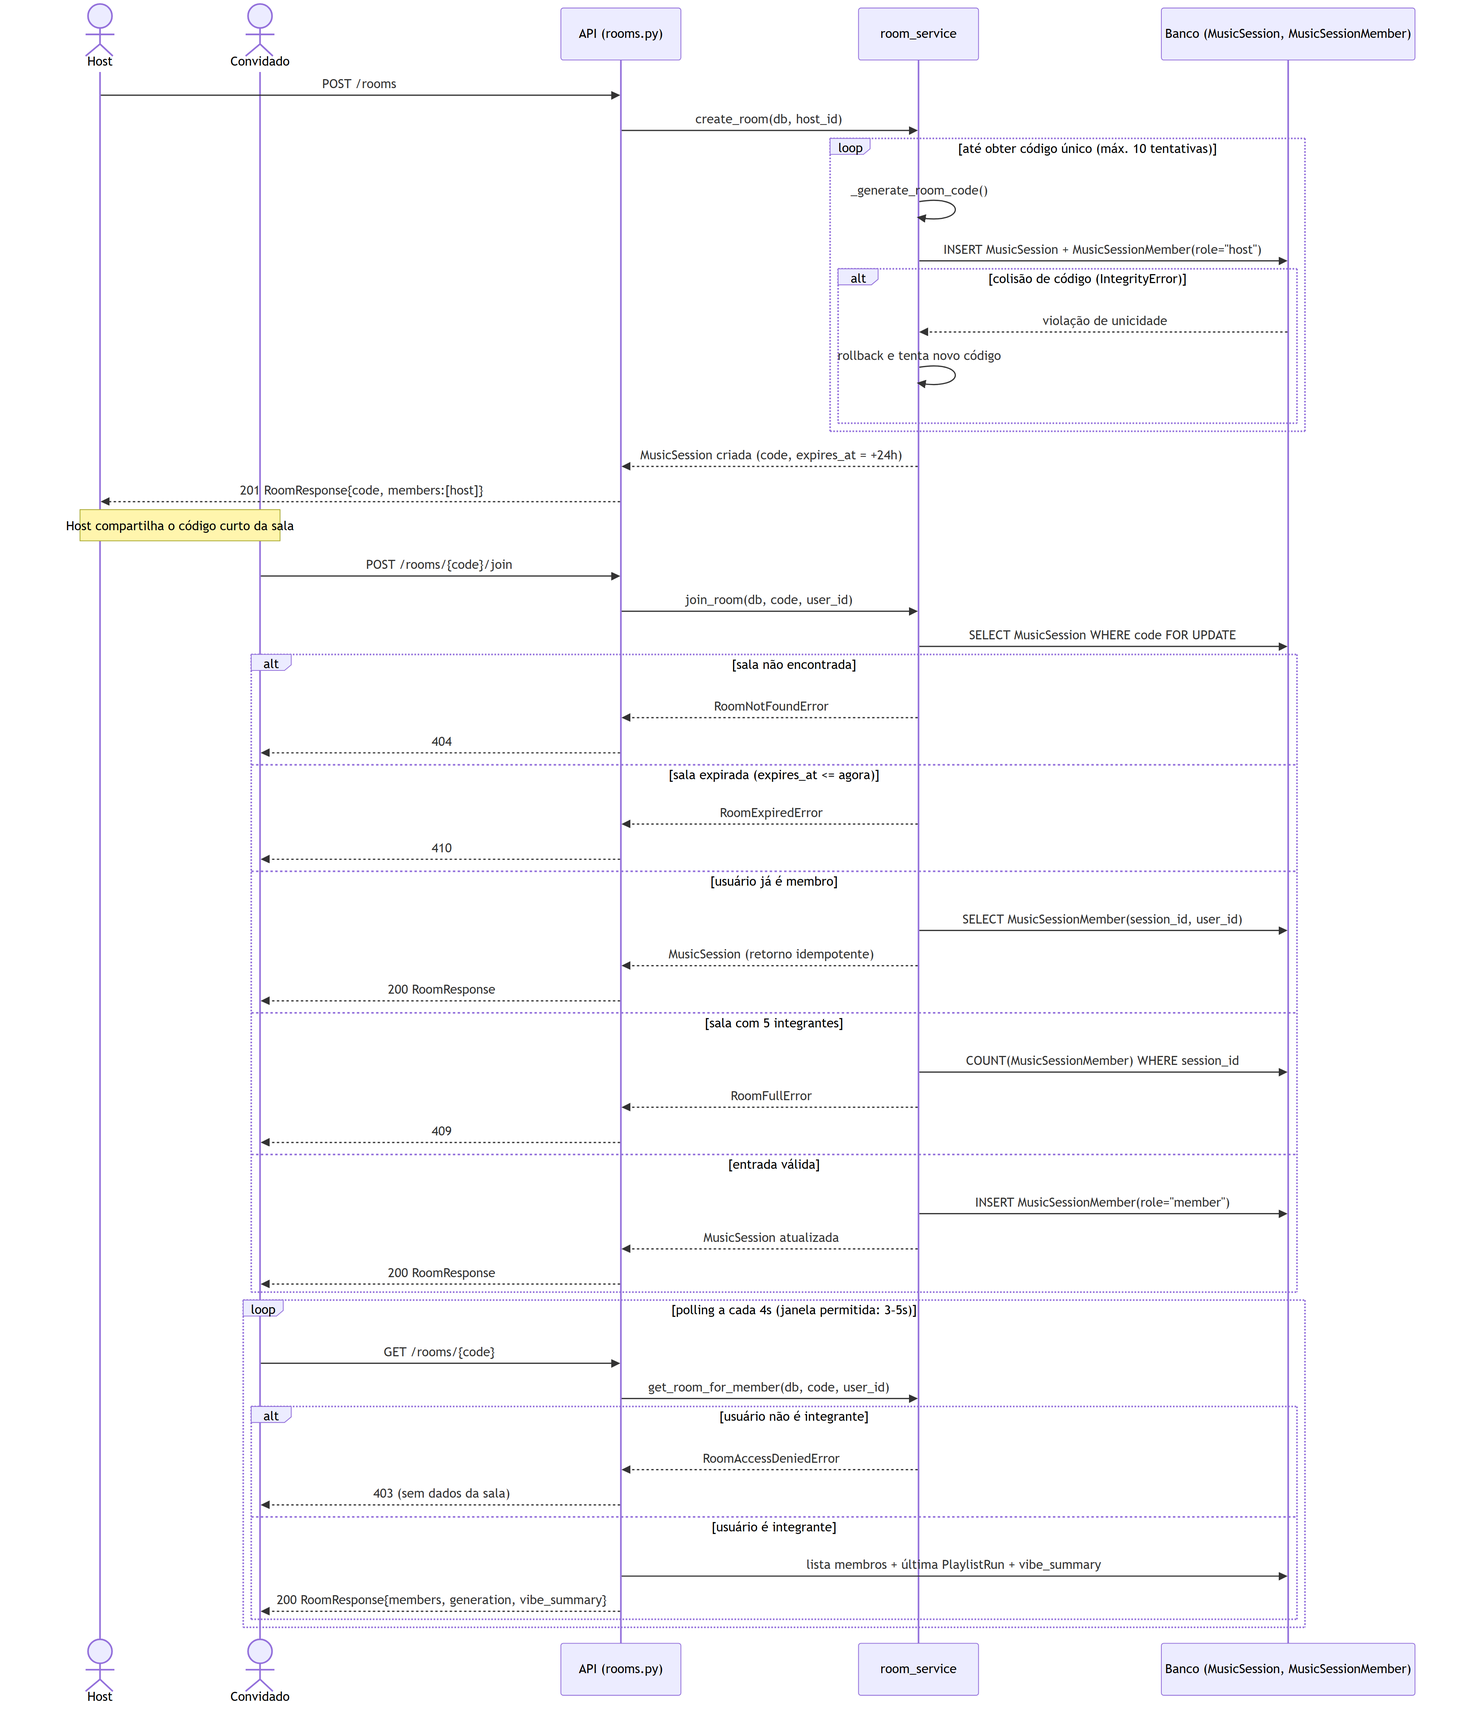
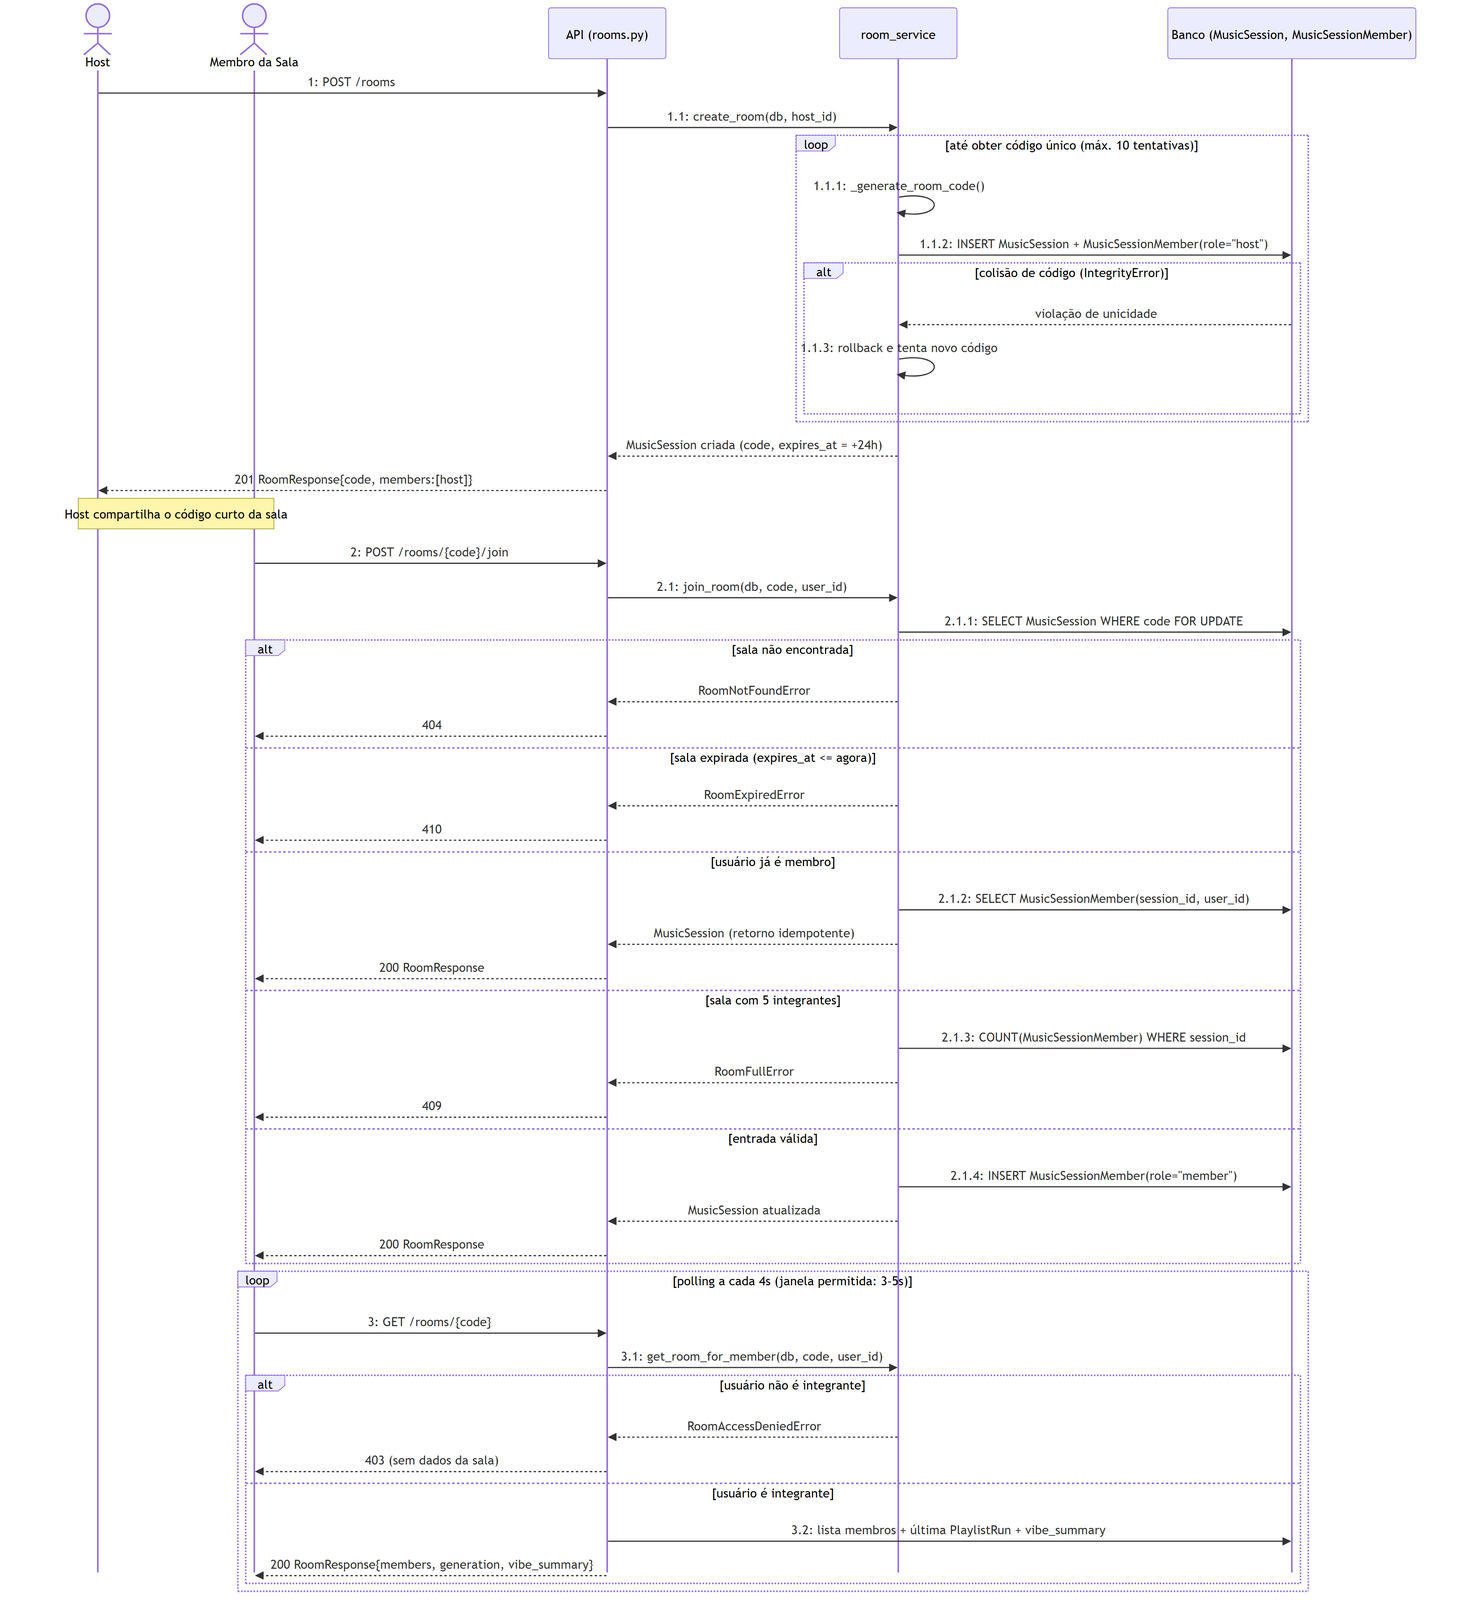
fix(diagramas): remover rodape duplicado, alinhar atores ao .puml e numerar sequencias
- Adiciona mirrorActals:false para remover a faixa de atores duplicada no rodape
  dos 4 diagramas de sequencia em diagrams/historias-usuario/.
- Alinha nomes de atores externos ao diagrams/casos-de-uso/casos-de-uso.puml:
  Usuario -> Membro da Sala (01); LLM (Ollama) -> IA (LLM local) (03);
  Convidado -> Membro da Sala (02 e 04).
- Adiciona numeracao hierarquica (1, 1.1, 1.1.1...) nas setas de chamada dos
  4 diagramas, sem numerar setas de retorno.
- Re-renderiza os 4 .png correspondentes com mmdc na mesma resolucao/caminho.

diff --git a/diagrams/historias-usuario/03-geracao-playlist-pne.md b/diagrams/historias-usuario/03-geracao-playlist-pne.md
@@ -3,19 +3,20 @@
 ![Geração da playlist pelo motor PNE](03-geracao-playlist-pne.png)
 
 ```mermaid
+%%{init: {'sequence': {'mirrorActors': false}}}%%
 sequenceDiagram
     actor Host
     participant API as API (rooms.py)
     participant Gen as GenerationService
-    participant LLM as LLM (Ollama)
+    participant LLM as IA (LLM local)
     participant PNE as Motor PNE (engine/*)
     participant Spotify as Spotify
     participant LastFM as Last.fm
     participant DB as Banco (PlaylistRun, PlaylistRunTrack, snapshots)
 
-    Host->>API: POST /rooms/{code}/generate
-    API->>Gen: start_generation(db, code, host_id)
-    Gen->>DB: SELECT MusicSession WHERE code FOR UPDATE
+    Host->>API: 1: POST /rooms/{code}/generate
+    API->>Gen: 1.1: start_generation(db, code, host_id)
+    Gen->>DB: 1.1.1: SELECT MusicSession WHERE code FOR UPDATE
 
     alt usuário não é o host
         Gen-->>API: RoomHostRequiredError
@@ -24,93 +25,93 @@ sequenceDiagram
         Gen-->>API: GenerationConflictError
         API-->>Host: 409
     else início válido
-        Gen->>DB: room.status = "generating", CREATE PlaylistRun(status="running")
+        Gen->>DB: 1.1.2: room.status = "generating", CREATE PlaylistRun(status="running")
         Gen-->>API: run
     end
 
-    API->>Gen: execute_generation(db, run.id, host_id)
+    API->>Gen: 2: execute_generation(db, run.id, host_id)
     activate Gen
 
-    Gen->>DB: update_generation_progress("interpreting_context")
-    Gen->>LLM: interpret_context(occasion, description)
+    Gen->>DB: 2.1: update_generation_progress("interpreting_context")
+    Gen->>LLM: 2.2: interpret_context(occasion, description)
     alt LLM disponível e resposta dentro do schema
         LLM-->>Gen: LLMContext{occasion, mood, energy, tags+/-, avoid}
     else LLM indisponível ou resposta inválida
-        Gen->>Gen: fallback_context() determinístico
+        Gen->>Gen: 2.3: fallback_context() determinístico
     end
-    Gen->>DB: persiste llm_context_json no run
+    Gen->>DB: 2.4: persiste llm_context_json no run
 
-    Gen->>DB: update_generation_progress("collecting_tastes")
+    Gen->>DB: 2.5: update_generation_progress("collecting_tastes")
     loop para cada integrante da sala
-        Gen->>Spotify: get_or_refresh_snapshot (top tracks/artists)
+        Gen->>Spotify: 2.6: get_or_refresh_snapshot (top tracks/artists)
         alt snapshot com menos de 7 dias
             Note over Gen,DB: reutiliza UserMusicSnapshot em cache
         else snapshot vencido ou ausente
             Spotify-->>Gen: novos top tracks / top artists
-            Gen->>DB: upsert UserMusicSnapshot
+            Gen->>DB: 2.6.1: upsert UserMusicSnapshot
         end
-        Gen->>PNE: new UserTasteProfile(member_id, tracks, artists, gêneros)
+        Gen->>PNE: 2.7: new UserTasteProfile(member_id, tracks, artists, gêneros)
     end
 
-    Gen->>PNE: cluster_taste_profiles(profiles)
+    Gen->>PNE: 2.8: cluster_taste_profiles(profiles)
     PNE-->>Gen: TasteClusteringResult (subgrupos ou "evidência insuficiente")
 
-    Gen->>PNE: generate_candidate_pool(snapshots)
+    Gen->>PNE: 2.9: generate_candidate_pool(snapshots)
     PNE-->>Gen: CandidateTrack[] (+ descartadas com motivo)
     alt nenhuma candidata válida encontrada
         Gen-->>API: InsufficientTracksError
         API-->>Host: 422
     end
 
-    Gen->>PNE: enrich_candidate_genres(candidates, gêneros dos artistas)
-    Gen->>LastFM: enrich_candidates_context (tags por faixa → artista)
+    Gen->>PNE: 2.10: enrich_candidate_genres(candidates, gêneros dos artistas)
+    Gen->>LastFM: 2.11: enrich_candidates_context (tags por faixa → artista)
     alt Last.fm indisponível ou sem tags
         Note over Gen,LastFM: mantém gêneros do Spotify já anexados (RNF-08)
     end
-    Gen->>DB: update_generation_progress("discovering_context")
-    Gen->>PNE: discover_context_candidates(candidates, ContextCriteria)
+    Gen->>DB: 2.12: update_generation_progress("discovering_context")
+    Gen->>PNE: 2.13: discover_context_candidates(candidates, ContextCriteria)
 
-    Gen->>DB: update_generation_progress("ranking")
-    Gen->>DB: load_vibe_preferences (agrega VibeCheckAnswer "answered" da sala)
-    Gen->>PNE: _rank_candidates(candidates, profiles, mode, context, vibe_preferences, clusters)
+    Gen->>DB: 2.14: update_generation_progress("ranking")
+    Gen->>DB: 2.15: load_vibe_preferences (agrega VibeCheckAnswer "answered" da sala)
+    Gen->>PNE: 2.16: _rank_candidates(candidates, profiles, mode, context, vibe_preferences, clusters)
     activate PNE
-    PNE->>PNE: calculate_group_score + calculate_vibe_score + evaluate_candidate_fairness
+    PNE->>PNE: 2.16.1: calculate_group_score + calculate_vibe_score + evaluate_candidate_fairness
     opt bridge_tracks_enabled
-        PNE->>PNE: evaluate_bridge_candidate (músicas-ponte entre subgrupos)
+        PNE->>PNE: 2.16.2: evaluate_bridge_candidate (músicas-ponte entre subgrupos)
     end
-    PNE->>PNE: elevate_least_represented (eleva o integrante menos representado)
+    PNE->>PNE: 2.16.3: elevate_least_represented (eleva o integrante menos representado)
     opt pool contextual habilitado
-        PNE->>PNE: blend_contextual_candidates
+        PNE->>PNE: 2.16.4: blend_contextual_candidates
     end
     opt subgroup_balancing_enabled
-        PNE->>PNE: balance_subgroup_candidates
+        PNE->>PNE: 2.16.5: balance_subgroup_candidates
     end
     PNE-->>Gen: candidatas ranqueadas
     deactivate PNE
 
-    Gen->>Spotify: get_valid_access_token(host)
-    Gen->>DB: update_generation_progress("matching_spotify")
-    Gen->>Spotify: resolve_candidates → search_track (por candidata sem ID direto)
+    Gen->>Spotify: 2.17: get_valid_access_token(host)
+    Gen->>DB: 2.18: update_generation_progress("matching_spotify")
+    Gen->>Spotify: 2.19: resolve_candidates → search_track (por candidata sem ID direto)
     Spotify-->>Gen: resultados de busca
-    Gen->>PNE: calculate_match_confidence(consulta, resultado)
-    Gen->>DB: CREATE PlaylistRunTrack (status matched | discarded, motivo)
+    Gen->>PNE: 2.20: calculate_match_confidence(consulta, resultado)
+    Gen->>DB: 2.21: CREATE PlaylistRunTrack (status matched | discarded, motivo)
 
-    Gen->>DB: update_generation_progress("creating_playlist")
-    Gen->>PNE: sequence_tracks(faixas casadas)
+    Gen->>DB: 2.22: update_generation_progress("creating_playlist")
+    Gen->>PNE: 2.23: sequence_tracks(faixas casadas)
     PNE-->>Gen: ordem final (máx. 2 músicas/artista, 20–30 faixas)
-    Gen->>Spotify: create_playlist(host_token, nome, description, public=false)
+    Gen->>Spotify: 2.24: create_playlist(host_token, nome, description, public=false)
     Spotify-->>Gen: playlist_id, playlist_url
-    Gen->>Spotify: add_items_to_playlist(playlist_id, uris)
-    Gen->>DB: persiste spotify_playlist_id/url no run
+    Gen->>Spotify: 2.25: add_items_to_playlist(playlist_id, uris)
+    Gen->>DB: 2.26: persiste spotify_playlist_id/url no run
 
-    Gen->>DB: update_generation_progress("finalizing")
-    Gen->>DB: complete_generation → finalize_run_metrics (compatibility/fairness), run.status="completed", room.status="open"
+    Gen->>DB: 2.27: update_generation_progress("finalizing")
+    Gen->>DB: 2.28: complete_generation → finalize_run_metrics (compatibility/fairness), run.status="completed", room.status="open"
     Gen-->>API: PlaylistRun concluído
     deactivate Gen
     API-->>Host: 202 PlaylistRunResponse
 
     alt falha em qualquer etapa (reauth necessário | rate limit | faixas insuficientes | serviço indisponível)
-        Gen->>DB: fail_generation(run, mensagem), room.status="open"
+        Gen->>DB: 2.29: fail_generation(run, mensagem), room.status="open"
         Gen-->>API: PlaylistGenerationError(reason)
         API-->>Host: 401 | 429 | 422 | 502 conforme o motivo
     end

diff --git a/diagrams/historias-usuario/02-criacao-sala-entrada-convidados.md b/diagrams/historias-usuario/02-criacao-sala-entrada-convidados.md
@@ -3,61 +3,62 @@
 ![Criação de sala e entrada de convidados](02-criacao-sala-entrada-convidados.png)
 
 ```mermaid
+%%{init: {'sequence': {'mirrorActors': false}}}%%
 sequenceDiagram
     actor Host
-    actor Convidado
+    actor Membro as Membro da Sala
     participant API as API (rooms.py)
     participant RoomSvc as room_service
     participant DB as Banco (MusicSession, MusicSessionMember)
 
-    Host->>API: POST /rooms
-    API->>RoomSvc: create_room(db, host_id)
+    Host->>API: 1: POST /rooms
+    API->>RoomSvc: 1.1: create_room(db, host_id)
     loop até obter código único (máx. 10 tentativas)
-        RoomSvc->>RoomSvc: _generate_room_code()
-        RoomSvc->>DB: INSERT MusicSession + MusicSessionMember(role="host")
+        RoomSvc->>RoomSvc: 1.1.1: _generate_room_code()
+        RoomSvc->>DB: 1.1.2: INSERT MusicSession + MusicSessionMember(role="host")
         alt colisão de código (IntegrityError)
             DB-->>RoomSvc: violação de unicidade
-            RoomSvc->>RoomSvc: rollback e tenta novo código
+            RoomSvc->>RoomSvc: 1.1.3: rollback e tenta novo código
         end
     end
     RoomSvc-->>API: MusicSession criada (code, expires_at = +24h)
     API-->>Host: 201 RoomResponse{code, members:[host]}
 
-    Note over Host,Convidado: Host compartilha o código curto da sala
+    Note over Host,Membro: Host compartilha o código curto da sala
 
-    Convidado->>API: POST /rooms/{code}/join
-    API->>RoomSvc: join_room(db, code, user_id)
-    RoomSvc->>DB: SELECT MusicSession WHERE code FOR UPDATE
+    Membro->>API: 2: POST /rooms/{code}/join
+    API->>RoomSvc: 2.1: join_room(db, code, user_id)
+    RoomSvc->>DB: 2.1.1: SELECT MusicSession WHERE code FOR UPDATE
 
     alt sala não encontrada
         RoomSvc-->>API: RoomNotFoundError
-        API-->>Convidado: 404
+        API-->>Membro: 404
     else sala expirada (expires_at <= agora)
         RoomSvc-->>API: RoomExpiredError
-        API-->>Convidado: 410
+        API-->>Membro: 410
     else usuário já é membro
-        RoomSvc->>DB: SELECT MusicSessionMember(session_id, user_id)
+        RoomSvc->>DB: 2.1.2: SELECT MusicSessionMember(session_id, user_id)
         RoomSvc-->>API: MusicSession (retorno idempotente)
-        API-->>Convidado: 200 RoomResponse
+        API-->>Membro: 200 RoomResponse
     else sala com 5 integrantes
-        RoomSvc->>DB: COUNT(MusicSessionMember) WHERE session_id
+        RoomSvc->>DB: 2.1.3: COUNT(MusicSessionMember) WHERE session_id
         RoomSvc-->>API: RoomFullError
-        API-->>Convidado: 409
+        API-->>Membro: 409
     else entrada válida
-        RoomSvc->>DB: INSERT MusicSessionMember(role="member")
+        RoomSvc->>DB: 2.1.4: INSERT MusicSessionMember(role="member")
         RoomSvc-->>API: MusicSession atualizada
-        API-->>Convidado: 200 RoomResponse
+        API-->>Membro: 200 RoomResponse
     end
 
     loop polling a cada 4s (janela permitida: 3–5s)
-        Convidado->>API: GET /rooms/{code}
-        API->>RoomSvc: get_room_for_member(db, code, user_id)
+        Membro->>API: 3: GET /rooms/{code}
+        API->>RoomSvc: 3.1: get_room_for_member(db, code, user_id)
         alt usuário não é integrante
             RoomSvc-->>API: RoomAccessDeniedError
-            API-->>Convidado: 403 (sem dados da sala)
+            API-->>Membro: 403 (sem dados da sala)
         else usuário é integrante
-            API->>DB: lista membros + última PlaylistRun + vibe_summary
-            API-->>Convidado: 200 RoomResponse{members, generation, vibe_summary}
+            API->>DB: 3.2: lista membros + última PlaylistRun + vibe_summary
+            API-->>Membro: 200 RoomResponse{members, generation, vibe_summary}
         end
     end
 ```

diff --git a/diagrams/historias-usuario/04-vibe-check-contexto.md b/diagrams/historias-usuario/04-vibe-check-contexto.md
@@ -3,54 +3,55 @@
 ![Contexto, modo de consenso e Vibe Check](04-vibe-check-contexto.png)
 
 ```mermaid
+%%{init: {'sequence': {'mirrorActors': false}}}%%
 sequenceDiagram
     actor Host
-    actor Convidado
+    actor Membro as Membro da Sala
     participant API as API (rooms.py / vibe_check.py)
     participant RoomSvc as room_service
     participant DB as Banco (MusicSession, VibeCheckAnswer)
 
-    Host->>API: PUT /rooms/{code}/context {occasion, description}
-    API->>RoomSvc: update_room_context(db, code, host_id, occasion, description)
+    Host->>API: 1: PUT /rooms/{code}/context {occasion, description}
+    API->>RoomSvc: 1.1: update_room_context(db, code, host_id, occasion, description)
     alt usuário autenticado não é o host
         RoomSvc-->>API: RoomHostRequiredError
         API-->>Host: 403
     else host confirmado
-        RoomSvc->>DB: UPDATE MusicSession.occasion/description
+        RoomSvc->>DB: 1.1.1: UPDATE MusicSession.occasion/description
         RoomSvc-->>API: MusicSession atualizada
         API-->>Host: 200 RoomResponse
     end
 
-    Host->>API: PUT /rooms/{code}/mode {mode}
-    API->>RoomSvc: update_room_mode(db, code, host_id, mode)
+    Host->>API: 2: PUT /rooms/{code}/mode {mode}
+    API->>RoomSvc: 2.1: update_room_mode(db, code, host_id, mode)
     alt modo fora do conjunto habilitado na configuração
         RoomSvc-->>API: RoomModeUnavailableError
         API-->>Host: 422
     else modo válido (Democrático | Festa Segura | Descoberta*)
-        RoomSvc->>DB: UPDATE MusicSession.mode
+        RoomSvc->>DB: 2.1.1: UPDATE MusicSession.mode
         RoomSvc-->>API: MusicSession atualizada
         API-->>Host: 200 RoomResponse
     end
 
     Note right of Host: * Descoberta só aparece quando habilitada na config do produto (RF-10)
 
-    Convidado->>API: GET /rooms/{code}/vibe-check
-    API->>DB: busca VibeCheckAnswer(session_id, user_id)
-    API-->>Convidado: perguntas fixas (energia, valência, popularidade) + status atual
+    Membro->>API: 3: GET /rooms/{code}/vibe-check
+    API->>DB: 3.1: busca VibeCheckAnswer(session_id, user_id)
+    API-->>Membro: perguntas fixas (energia, valência, popularidade) + status atual
 
-    alt Convidado responde ao questionário
-        Convidado->>API: POST /rooms/{code}/vibe-check {energy, valence, popularity}
-        API->>DB: upsert VibeCheckAnswer(status="answered")
-        API-->>Convidado: 200 "Vibe Check salvo"
-    else Convidado opta por pular
-        Convidado->>API: POST /rooms/{code}/vibe-check/skip
-        API->>DB: upsert VibeCheckAnswer(status="skipped", energy/valence/popularity=null)
-        API-->>Convidado: 200 "pulado, nenhuma preferência foi aplicada"
+    alt Membro da Sala responde ao questionário
+        Membro->>API: 4: POST /rooms/{code}/vibe-check {energy, valence, popularity}
+        API->>DB: 4.1: upsert VibeCheckAnswer(status="answered")
+        API-->>Membro: 200 "Vibe Check salvo"
+    else Membro da Sala opta por pular
+        Membro->>API: 5: POST /rooms/{code}/vibe-check/skip
+        API->>DB: 5.1: upsert VibeCheckAnswer(status="skipped", energy/valence/popularity=null)
+        API-->>Membro: 200 "pulado, nenhuma preferência foi aplicada"
     end
 
     loop polling da sala (qualquer integrante)
-        Host->>API: GET /rooms/{code}
-        API->>DB: agrega vibe_status de todos os membros
+        Host->>API: 6: GET /rooms/{code}
+        API->>DB: 6.1: agrega vibe_status de todos os membros
         API-->>Host: RoomResponse.vibe_summary{total, pending, answered, skipped}
     end
 

diff --git a/diagrams/historias-usuario/01-autenticacao-spotify.md b/diagrams/historias-usuario/01-autenticacao-spotify.md
@@ -3,19 +3,20 @@
 ![Autenticação via Spotify OAuth](01-autenticacao-spotify.png)
 
 ```mermaid
+%%{init: {'sequence': {'mirrorActors': false}}}%%
 sequenceDiagram
-    actor Usuario as Usuário
+    actor Membro as Membro da Sala
     participant Frontend as Frontend (React)
     participant API as API (auth.py)
     participant Spotify as Spotify
     participant DB as Banco (User, SpotifyToken, AppSession)
 
-    Usuario->>Frontend: clica "Entrar com Spotify"
-    Frontend->>API: GET /auth/login
-    API->>API: gera state (secrets.token_urlsafe)
+    Membro->>Frontend: 1: clica "Entrar com Spotify"
+    Frontend->>API: 1.1: GET /auth/login
+    API->>API: 1.1.1: gera state (secrets.token_urlsafe)
     API-->>Frontend: 302 Redirect + Set-Cookie(spotify_auth_state, httpOnly)
-    Frontend->>Spotify: redireciona para autorização OAuth
-    Usuario->>Spotify: autoriza acesso (login + consentimento)
+    Frontend->>Spotify: 1.2: redireciona para autorização OAuth
+    Membro->>Spotify: 2: autoriza acesso (login + consentimento)
     Spotify-->>API: GET /auth/callback?code&state
 
     alt state ausente ou diferente do cookie
@@ -23,28 +24,28 @@ sequenceDiagram
     else code ausente ou error=acesso negado
         API-->>Frontend: 400 "Autorização Spotify negada"
     else state válido
-        API->>Spotify: exchange_code_for_token(code)
+        API->>Spotify: 2.1: exchange_code_for_token(code)
         Spotify-->>API: access_token, refresh_token, expires_in
-        API->>Spotify: get_current_user_profile(access_token)
+        API->>Spotify: 2.2: get_current_user_profile(access_token)
         Spotify-->>API: perfil {id, display_name, images}
-        API->>DB: SELECT User WHERE spotify_id
+        API->>DB: 2.3: SELECT User WHERE spotify_id
         alt usuário novo
-            API->>DB: INSERT User
+            API->>DB: 2.4: INSERT User
         else usuário existente
-            API->>DB: UPDATE User (display_name, image_url)
+            API->>DB: 2.5: UPDATE User (display_name, image_url)
         end
-        API->>API: crypto.encrypt(access_token, refresh_token)
-        API->>DB: UPSERT SpotifyToken (tokens cifrados, token_expires_at)
-        API->>DB: CREATE AppSession (session_token_hash, expires_at = +30d)
+        API->>API: 2.6: crypto.encrypt(access_token, refresh_token)
+        API->>DB: 2.7: UPSERT SpotifyToken (tokens cifrados, token_expires_at)
+        API->>DB: 2.8: CREATE AppSession (session_token_hash, expires_at = +30d)
         API-->>Frontend: 302 Redirect + Set-Cookie(vibe_session, httpOnly)
     end
 
-    Frontend->>API: GET /auth/me (cookie vibe_session)
-    API->>DB: SELECT AppSession WHERE session_token_hash
+    Frontend->>API: 3: GET /auth/me (cookie vibe_session)
+    API->>DB: 3.1: SELECT AppSession WHERE session_token_hash
     alt sessão inexistente ou expirada
         API-->>Frontend: 401 "Sessão inválida ou expirada"
     else sessão válida
-        API->>DB: SELECT User WHERE id
+        API->>DB: 3.2: SELECT User WHERE id
         API-->>Frontend: 200 {id, spotify_id, display_name, image_url}
     end
 ```
